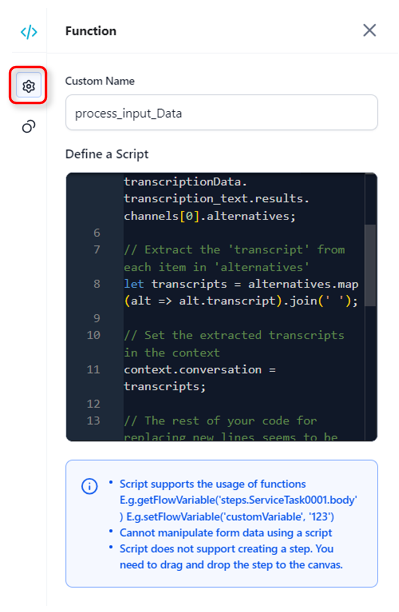
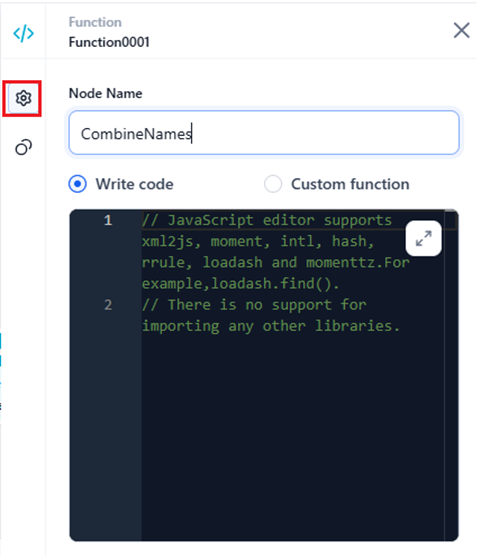
commit: function node edits

diff --git a/docs/agent-platform/ai-agents/tools/tool-flows/types-of-nodes/function-node.md b/docs/agent-platform/ai-agents/tools/tool-flows/types-of-nodes/function-node.md
@@ -1,10 +1,10 @@
-# Function Node - Automate Script Executions
+# Function Node - Automate Function Executions
 
-Function nodes let you write custom scripts using JavaScript or Python to process context variables or other variables used in the tool flow.
+A **Function** node lets you write and execute custom scripts using JavaScript or Python, or use custom functions within a script you have imported and deployed within the tools automation flow.
 
 ## Add and Configure a Function Node
 
-Setting up a Function node in a tool flow involves adding the node at the appropriate location in the flow and configuring various node properties.
+Setting up a Function node includes adding the node at the appropriate location in the flow and configuring its properties.
 
 Steps to add and configure the node:
 
@@ -14,86 +14,72 @@ Steps to add and configure the node:
 
 3. In the flow builder, click the “**+**” icon on any existing node on the canvas and select **Function** from the pop-up menu. (Alternatively, drag the **Function** node from the Assets panel onto the canvas.)
 
-4. Click the added node to open its properties dialog box. The General Settings for the node are displayed.  
+4. Click the added node to open its properties dialog box. The **General Settings** for the node are displayed.  
 <img src="./../images/configure-function-node.png" alt="Configure Function Node" title="Configure Function Node" style="border: 1px solid gray; zoom:80%;">
 
 5. Enter or select the following information:
 
-    * **Custom Name**: Enter an appropriate name for the node.
+    * **Node Name**: Enter an appropriate name for the node based on its functionality or purpose.
 
-    * **Define a Script**: You can define a script using Javascript or Python to process/parse the given input or the output of the previous node. Click anywhere in the **Define a Script** field to open the **Script Editor** dialog box.  
-    <img src="./../images/function-node-script-editor.png" alt="Configure Function Node" title="Configure Function Node" style="border: 1px solid gray; zoom:80%;">
+    * Select one of the following options to define and execute a function within the node:
 
-        1. In the top-left corner, choose the appropriate scripting language - **Javascript** or **Python**. Enter the script in the box. You can use variables or context variables in the Script Editor. For example, to read an input variable, use the following syntax:
-            ~~~
-            context.<variable-name> = context.steps.<startNode-Name>.<inputVariable-name>
-            ~~~
-            To call a function, use the following syntax:
-            ~~~
-            context.<UserDefined-Variable-Name>= UserDefined-Function-Name(context.steps.<startNode-Name>.<inputVariable-name>)
-            ~~~
+        * **Write Code**: Write a custom code in the built-in editor for the function you want to execute. [Learn more](../types-of-nodes/function-node.md/#using-write-code){:target="_blank"}.
+        * **Custom Function**: Use a custom function from an imported and deployed script. Learn more.
 
-            !!! note
-                You cannot import packages in the Function node. However, you can use pre-existing libraries such as pandas or numpy. [Learn more](./script-libraries.md).
+        For the above options, you can define a script in JavaScript or Python with specific logic, static or dynamic input arguments, and output values.
+    
+<ol start="6"><li>Click the <b>Connections</b> icon in the left navigation and select <b>Go to Node</b> for success and failure conditions. </li>
+<img src="./../images/function-node-connections.png" alt="Configure Connection Settings" title="Configure Connection Settings" style="border: 1px solid gray; zoom:80%;"></ol>
 
-        2. You can use the Context input or output feature to use a variable from the previous node or when testing a function.
-            * **Context Input**: Add the required variable; dummy input values can be given to test the defined function.
-            * **Context Output**: Shows the results of the function from the given input.
-            * **Log**: Monitor the state of the function and view the values.
+* **On Success** > **Go to Node**: After the current node is successfully executed, go to a selected node in the flow to execute next. For example, you can go to an AI node to use the processed data from the Function node.
+* **On Failure** > **Go to Node**: If the execution of the current node fails, go to an appropriate node having a custom error message configured for this node.
 
-        3. Click **Run** to test the script. Once the script is resolved successfully, the results are displayed in the Log section.
-        4. Close the Script Editor.
+<ol start="7"><li>Finally, test the flow and fix any issues found.</li></ol>
 
-6. Click the **Connections** icon in the left navigation and select **Go to Node** for success and failure conditions.  
-<img src="./../images/function-node-connections.png" alt="Configure Connection Settings" title="Configure Connection Settings" style="border: 1px solid gray; zoom:80%;">
-    1. **On Success** > **Go to Node**: After the current node is successfully executed, go to a selected node in the flow to execute next. For example, you can go to an AI node to use the processed data from the Function node.
-    2. **On Failure** > **Go to Node**: If the execution of the current node fails, go to an appropriate node having a custom error message configured for this node.
-
-7. Finally, test the flow and fix any issues found. 
 !!! failure "Standard Errors"
 
     You can see compilation and runtime errors, if any, during the execution of the script/node.
 
-## Test the Flow
+## Executing the Function
 
-After adding and configuring the node as mentioned [here](https://docs.kore.ai/agent-platform/ai-agents/tools/tool-flows/types-of-nodes/function-node/){:target="_blank"}, follow the steps below to test the flow:
+The node provides two options to set up and execute its function:
 
-### Step 1: Define and Test the Function Code
+### Using Write Code
 
-To define the logic and flow of the script, follow the steps below:
+To write a custom function code from scratch (define its logic and flow), follow the steps below:
 
-1. In the **Define a Script** window, click the **Expand** icon to view and edit your code in the script editor.
+1. Select the **Write Code** option and click the **Expand** icon to open the script editor.
 <img src="../images/define-a-script-window.png" alt="define a script window" title="define a script window" style="border: 1px solid gray; zoom:80%;">
 
-2. Select the required coding format.
-<img src="../images/select-coding-format.png" alt="coding format" title="coding format" style="border: 1px solid gray; zoom:80%;">
+2. Follow the steps below to complete the process.
 
-3. Use [these](../types-of-nodes/function-node.md/#syntaxes-for-the-context-input){:target="_blank"} syntaxes to define the code in JavaScript or Python. You can add [static](../types-of-nodes/function-node.md/#define-static-input-variables){:target="_blank"} or [dynamic](../types-of-nodes/function-node.md/#define-dynamic-input-variables){:target="_blank"} input variables in the code to generate the output.
-<img src="../images/dynamic-context.png" alt="dynamic context" title="dynamic context" style="border: 1px solid gray; zoom:80%;">
+    * Select the required coding format in the script editor.
+        <img src="../images/select-coding-format.png" alt="coding format" title="coding format" style="border: 1px solid gray; zoom:80%;">
 
-<ol start="4"><li>Click <b>Run</b> in the script editor to test the code.</li>
-<img src="../images/run-script.png" alt="run script" title="run script" style="border: 1px solid gray; zoom:80%;"></ol>
+    * Use [these](../types-of-nodes/function-node.md/#syntaxes-for-the-context-input){:target="_blank"} syntaxes to define the code in JavaScript or Python. You can add [static](../types-of-nodes/function-node.md/#define-static-input-variables){:target="_blank"} or [dynamic](../types-of-nodes/function-node.md/#define-dynamic-input-variables){:target="_blank"} input variables in the code to generate the output.
+        <img src="../images/dynamic-context.png" alt="dynamic context" title="dynamic context" style="border: 1px solid gray; zoom:80%;">
+
+    * Click <b>Run</b> in the script editor to test the function.
+        <img src="../images/run-script.png" alt="run script" title="run script" style="border: 1px solid gray; zoom:80%;">
     
-The script editor has the following tabs representing the code components:
+    The script editor has the following tabs representing the code components:
 
-* **Context Input**: Displays the context input(s) fetched from the **Start** node or the static inputs in the code.
-<img src="../images/context-ip.png" alt="context input" title="context input" style="border: 1px solid gray; zoom:80%;">
+    <ul><li><b>Context Input</b>: Displays the context input(s) fetched from the <b>Start</b> node or the static inputs in the code.</li>
+    <img src="../images/context-ip.png" alt="context input" title="context input" style="border: 1px solid gray; zoom:80%;"></ul>
+    <ul><li><b>Context Output</b>: Displays the output generated by the script.</li>
+    <img src="../images/context-output.png" alt="context output" title="context output" style="border: 1px solid gray; zoom:80%;"></ul>
+    <ul><li><b>Log</b>: Displays the code execution log, including the output or error(s).</li>
+    <img src="../images/logs.png" alt="logs" title="logs" style="border: 1px solid gray; zoom:80%;"></ul>
 
-* **Context Output**: Displays the output generated by the script.
-<img src="../images/context-output.png" alt="context output" title="context output" style="border: 1px solid gray; zoom:80%;">
+#### Using Static or Dynamic Values in the Script
 
-* **Log**: Displays the code execution log, including the output or error(s).
-<img src="../images/logs.png" alt="logs" title="logs" style="border: 1px solid gray; zoom:80%;">
-
-### Using Static or Dynamic Values in the Script
-
-#### Define Static Input Variables
+##### Define Static Input Variables
 
 1. In the script editor, select the coding format from the dropdown.
 2. Define the input variables and their values as shown below.
 <img src="../images/static-code.png" alt="static code" title="static code" style="border: 1px solid gray; zoom:75%;">
 
-#### Define Dynamic Input Variables
+##### Define Dynamic Input Variables
 
 1. In the script editor, select the coding format from the dropdown.
 2. Define the input variables and define dynamic values using context variables in the [defined format](../types-of-nodes/function-node.md/#context-variables-for-dynamic-inputs){:target="_blank"}, as shown below.
@@ -106,7 +92,31 @@ The script editor has the following tabs representing the code components:
 
 <img src="../images/dynamic-inputs-python.png" alt="dynamic inputs py" title="dynamic inputs py" style="border: 1px solid gray; zoom:75%;">
 
-### Step 2: Test the Flow using Static or Dynamic Inputs
+#### Context Variables for Dynamic Inputs
+
+Before you [run the flow](../types-of-nodes/function-node.md/#run-the-flow){:target="_blank"}, provide clear instructions for the model to follow by [adding the input variable(s)](../types-of-nodes/function-node.md/#dynamic-inputs){:target="_blank"} using **context variables**. Context variables allow you to include dynamic values in the script that a node executes to generate its output. The JSON code editor supports both **JavaScript** and **Python** formats.
+
+#### Syntaxes for the Context Input
+
+**JavaScript**
+
+The recommended syntax to fetch dynamic variables using JS in the context input is: `{{context.steps.Start.variable-name}}` 
+
+For example, `context.steps.Start.Q3balance`
+
+**Python**
+
+The recommended syntax to fetch dynamic variables using Python in the context input is: `{{context["steps"]["Start"]["variable-name"]}}` 
+
+For example, `context["steps"]["Start"]["Q3balance"]`
+
+The above syntaxes fetch the variable “*Q3balance*” that you define in the **Start** node. [Learn more](../types-of-nodes/function-node.md/#dynamic-inputs){:target="_blank"}.
+
+## Test the Node Flow 
+
+After adding and configuring the node as mentioned [here](../types-of-nodes/function-node.md/#add-and-configure-a-function-node){:target="_blank"}, follow the steps below to test the flow:
+
+### Step 1: Add Static or Dynamic Inputs
 
 ### Static Inputs
 
@@ -140,7 +150,7 @@ Once you define the input variables, you must [add the output variable(s)](../ty
 <li>Once you run the node’s flow, the result gets stored in the output variable of the <b>Start</b> node. Additionally, this key is mapped to the <b>End</b> node, where you can define its value.</li>
 <img src="../images/output-variable-start-node.png" alt="end node key" title="end node key" style="border: 1px solid gray; zoom:75%;"></ul></p></div>
 
-### Add the Output Variable
+### Step 2: Add the Output Variable
 
 To define the output variable, follow the steps below:
 
@@ -151,9 +161,9 @@ To define the output variable, follow the steps below:
 <li>Click <b>Save</b>.</li>
 <img src="../images/save-output-variable-window.png" alt="save output variable" title="save output variable" style="border: 1px solid gray; zoom:75%;"></ol>
 
-### Run the Flow
+### Step 3: Run the Tool Flow
 
-To run and test the flow, follow the steps below:
+To run and test the tool flow, follow the steps below:
 
 1. Click the **Run Flow** button at the top-right corner of the flow builder.
 <img src="../images/run-flow-function-node.png" alt="run flow" title="run flow" style="border: 1px solid gray; zoom:75%;">  
@@ -179,24 +189,4 @@ For example, <code><em>context.steps.Bankingnode.output</em></code>
 <p>Agent Platform can automatically recognize variables and outputs. To do so, type "<code>context.steps.</code>" and you will see the available variables, nodes, and node outputs.</p>
 </div>
 
-## Context Variables for Dynamic Inputs
-
-Before you [run the flow](../types-of-nodes/function-node.md/#run-the-flow){:target="_blank"}, provide clear instructions for the model to follow by [adding the input variable(s)](../types-of-nodes/function-node.md/#dynamic-inputs){:target="_blank"} using **context variables**. Context variables allow you to include dynamic values in the script that a node executes to generate its output. The JSON code editor supports both **JavaScript** and **Python** formats.
-
-
-## Syntaxes for the Context Input
-
-**JavaScript**
-
-The recommended syntax to fetch dynamic variables using JS in the context input is: `{{context.steps.Start.variable-name}}` 
-
-For example, `context.steps.Start.Q3balance`
-
-**Python**
-
-The recommended syntax to fetch dynamic variables using Python in the context input is: `{{context["steps"]["Start"]["variable-name"]}}` 
-
-For example, `context["steps"]["Start"]["Q3balance"]`
-
-The above syntaxes fetch the variable “*Q3balance*” that you define in the **Start** node. [Learn more](../types-of-nodes/function-node.md/#dynamic-inputs){:target="_blank"}.
 
